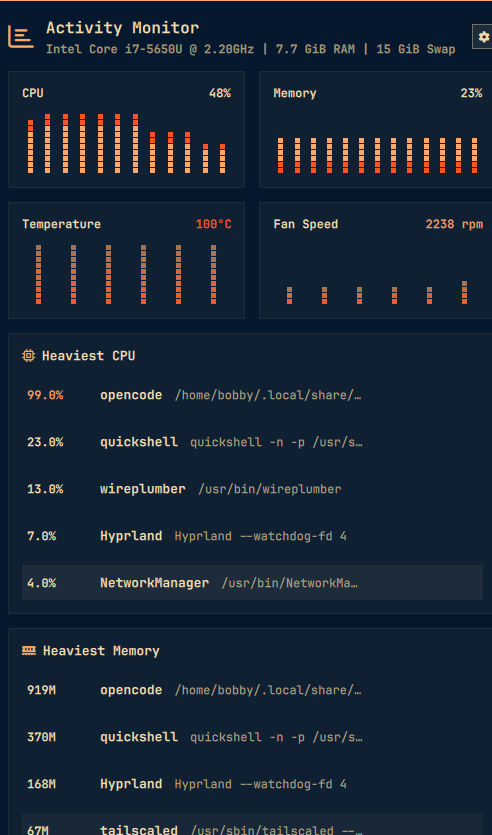
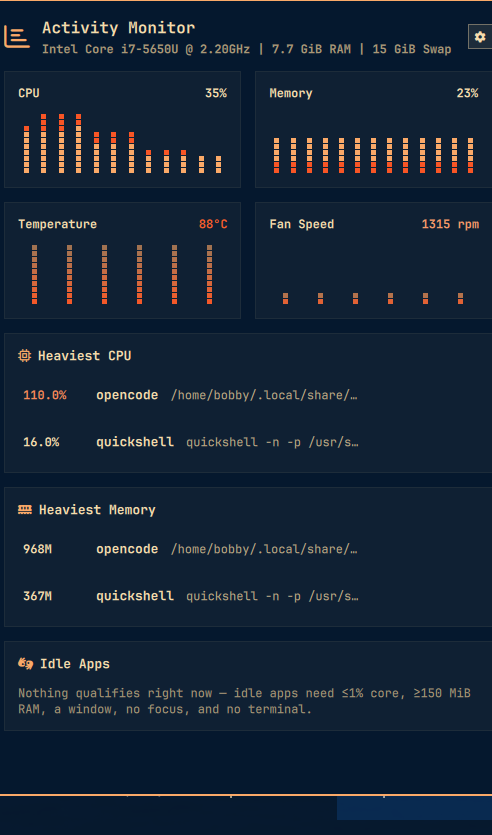
Enforce CPU/memory list thresholds instead of padding rows
Heaviest CPU and Heaviest Memory no longer top up to a fixed row count with
below-threshold processes; the 10% / 200 MiB floors now genuinely bound list
length so a quiet machine shows few or no rows. Both floors are configurable:

- SystemPanel reads cpuThresholdPct / memThresholdMib from the widget
- Widget exposes cpuThresholdPct (default 10, 1-400) and memThresholdMib
  (default 200, 32-8192) via shell.json settings
- topProcessCount still caps the row count; README and preview updated

diff --git a/SystemPanel.qml b/SystemPanel.qml
@@ -34,21 +34,21 @@ KeyboardPanel {
   // Idle Apps) each capped at a handful of rows; pending* is the one-shot
   // confirm state for a kill offered on any row.
   property int topProcessCount: 15
+  property int cpuThresholdPct: 10
+  property int memThresholdMib: 200
   property int pendingPid: 0
   property string pendingSig: ""
   property string pendingComm: ""
 
   readonly property int sectionRows: Math.min(Math.max(root.topProcessCount, 1), 5)
+  readonly property int memThresholdKib: root.memThresholdMib * 1024
 
-  // Heaviest CPU only counts processes pulling more than 10% of a core;
-  // Heaviest Memory only counts processes above 200 MiB resident. Both lists
-  // still cap rows so the panel stays short.
-  //
-  // `topup` guarantees the section never renders empty: when fewer processes
-  // pass the filter, the remaining slots are filled with the top rows anyway.
-  // That keeps at least one Quit / Force affordance on screen no matter how
-  // idle the machine is.
-  function sliceProcessList(report, key, filter, topup) {
+  // Heaviest CPU only counts processes pulling more than cpuThresholdPct% of a
+  // core; Heaviest Memory only counts processes above memThresholdMib MiB
+  // resident, and both lists cap at sectionRows. The thresholds keep a quiet
+  // machine's lists genuinely short — a row only appears when its process is
+  // actually worth your attention.
+  function sliceProcessList(report, key, filter) {
     var arr = report && report.ok ? report[key] : []
     if (arr === undefined || arr === null) arr = []
     var out = []
@@ -56,23 +56,15 @@ KeyboardPanel {
       if (filter && !filter(arr[i])) continue
       out.push(arr[i])
     }
-    if (topup && arr.length > out.length) {
-      var seen = {}
-      for (var j = 0; j < out.length; j++) seen[out[j].pid] = 1
-      for (var k = 0; k < arr.length && out.length < root.sectionRows; k++) {
-        if (seen[arr[k].pid]) continue
-        out.push(arr[k])
-      }
-    }
     return out
   }
 
   readonly property var processCpuList: sliceProcessList(hw.processReport, "cpu", function(e) {
-    return e && isFinite(e.cpuPct) && e.cpuPct > 10
-  }, true)
+    return e && isFinite(e.cpuPct) && e.cpuPct > root.cpuThresholdPct
+  })
   readonly property var processMemList: sliceProcessList(hw.processReport, "mem", function(e) {
-    return e && isFinite(e.rssKib) && e.rssKib > 204800
-  }, true)
+    return e && isFinite(e.rssKib) && e.rssKib > root.memThresholdKib
+  })
   readonly property var processIdleList: sliceProcessList(hw.processReport, "idle")
 
   // Owner uid reported by proc-probe's meta line. Only a process owned by this

diff --git a/Widget.qml b/Widget.qml
@@ -112,6 +112,8 @@ Panel {
   // The popup's process lists: how many rows per list and how often Service
   // re-runs the process survey script.
   readonly property int topProcessCount: intSetting("topProcessCount", 5, 1, 20)
+  readonly property int cpuThresholdPct: intSetting("cpuThresholdPct", 10, 1, 400)
+  readonly property int memThresholdMib: intSetting("memThresholdMib", 200, 32, 8192)
 
   readonly property string clickCommand: String(setting("clickCommand", ""))
 
@@ -585,6 +587,8 @@ Panel {
     warnTempC: root.warnTempC
     criticalTempC: root.criticalTempC
     topProcessCount: root.topProcessCount
+    cpuThresholdPct: root.cpuThresholdPct
+    memThresholdMib: root.memThresholdMib
   }
 
   // A component group: glyph + figure (+ temp)

diff --git a/README.md b/README.md
@@ -22,11 +22,12 @@ current heaviest processes, and the idle apps you can reclaim.
   **user / system / iowait** and memory by **apps / cache / buffers**, so the
   breakdown is visible without a legend cluttering the cards. Buffered
   continuously in the background, so the panel opens already populated.
-- **Process lists** — Heaviest CPU (anything above 10% of a core), Heaviest
-  Memory (above 200 MiB resident), and Idle Apps (the reclaimable GUI apps), one
-  row each with the highlighted metric, the app name, and the full command line.
-  The lists always fill to their row cap with the top processes, so there is
-  always at least one row with a kill affordance no matter how quiet the box.
+- **Process lists** — Heaviest CPU (anything above the CPU threshold), Heaviest
+  Memory (anything above the memory threshold), and Idle Apps (the reclaimable
+  GUI apps), one row each with the highlighted metric, the app name, and the
+  full command line. Thresholds keep the lists short: a quiet machine shows few
+  or no rows instead of padding. `topProcessCount`, `cpuThresholdPct`, and
+  `memThresholdMib` tune the length.
 - **Quiet, on your own processes** — rows belonging to the OS keep a faint
   tinted background and never carry actions; your own rows stay plain until you
   hover, when a subtle **Quit** (SIGTERM) / **Force** (SIGKILL) pair appears
@@ -202,7 +203,9 @@ omarchy bar set modib.activity-monitor fahrenheit true --json
 | `clickCommand` | string | `""` | Command for left click; empty opens the panel. |
 | `monitors` | array/string | `[]` | Connector names to draw on; empty draws on all. |
 | `processProbeIntervalSec` | int | `8` | Seconds between process surveys. |
-| `topProcessCount` | int | `5` | Rows per list in the panel (capped at 5). |
+| `topProcessCount` | int | `5` | Max rows per list in the panel (capped at 5). |
+| `cpuThresholdPct` | int | `10` | CPU% floor for the Heaviest CPU list. |
+| `memThresholdMib` | int | `200` | Resident-size floor (MiB) for Heaviest Memory. |
 
 ## IPC
 
